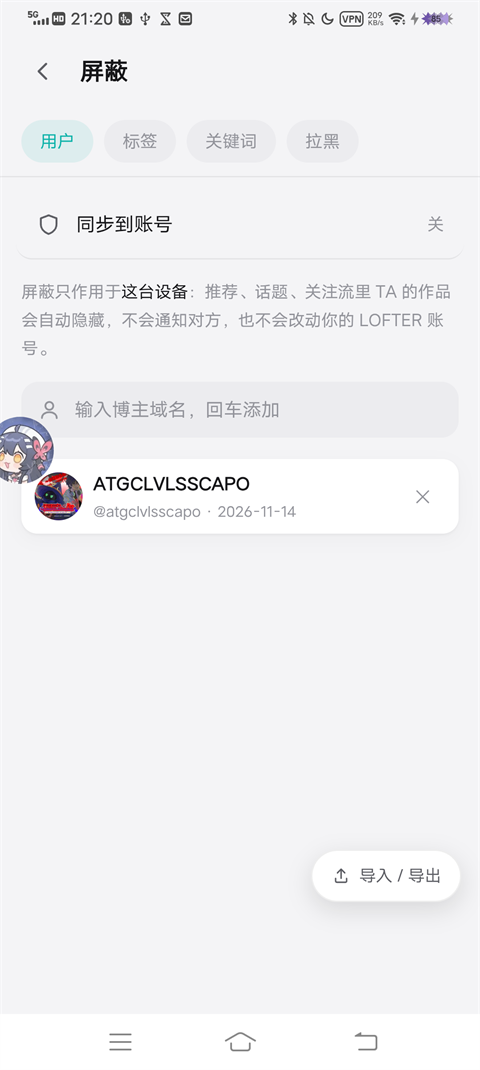
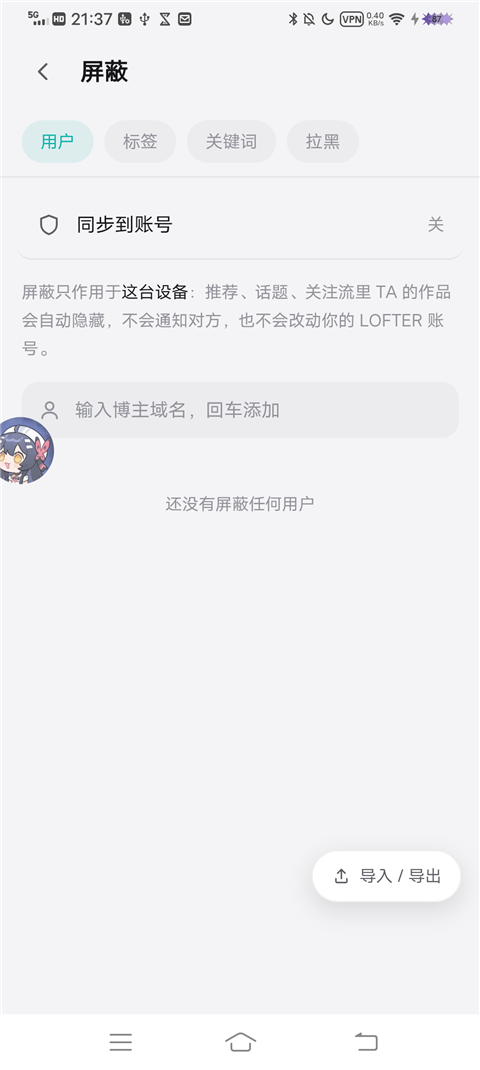
docs: README 补标签订阅一行，屏蔽截图换成干净的真机实拍

diff --git a/README.md b/README.md
@@ -30,14 +30,15 @@
 
 **基础浏览**
 
-- **推荐流**：瀑布流刷图，视频帖带封面和播放时长，多图帖有缩略预览，可按标签筛选
-- **关注动态**：动态 / 订阅标签两栏切换；「包含关注人的推荐」可开关；首屏三页，滚到底按需加载
-- **订阅标签**：每个标签一张大卡片 + 三张缩略图，缩略图缓存在本机，下次打开立刻有图；纯文字标签有占位块
-- **作品详情**：多图、视频、发布与编辑时间、所属合集（可翻上一篇 / 下一篇）、评论与楼中楼
-- **评论**：热门 / 最新切换；图片评论显示缩略图，点开看大图；划线评显示被划住的原文
-- **搜索**：标签、用户、作品三类结果，作品直接以作品卡片展示
+- **推荐流**：瀑布流刷新，可按标签筛选
+- **关注动态**：动态 / 订阅标签两栏切换；「包含关注人的推荐」可开关；
+- **订阅标签**：每个标签一张大卡片 + 三张缩略图
+- **标签订阅**：标签页右上角一键「订阅 / 已订阅」，订阅写在账号上，官方 App 与网页端同步
+- **作品详情**：多图、视频、发布与编辑时间、所属合集、评论与楼中楼
+- **评论**：热门 / 最新切换
+- **搜索**：标签、用户、作品三类结果
 - **账号页**：关注 / 粉丝 / 喜欢 / 收藏 / 推荐都能点进去看列表；博主主页显示 LOFTER ID、IP 属地、简介与置顶作品
-- **阅读体验**：保存图片到相册、复制作品链接自动跳转、返回上一页回到原位置、深色模式跟随系统
+- **阅读体验**：保存图片到相册、复制作品链接自动跳转、深色模式跟随系统
 
 **增强屏蔽（重点）**
 
@@ -50,7 +51,6 @@
 - **就地屏蔽**：作品详情页点「屏蔽」可直接屏蔽作者或当前标签；长按卡片只弹屏蔽面板，不会选中文字
 - **屏蔽说明卡**：打开被屏蔽的链接时，卡片显示作者、标题、标签与「被什么原因屏蔽」，可以选「继续观看」
 - **备份与同步**：名单可导入 / 导出成 JSON；也可以选择把标签屏蔽、拉黑同步到账号（写账号操作，需登录，短时间连续操作可能触发滑块验证）
-- **统一入口**：屏蔽页右下角固定「导入 / 导出」小长条按钮
 
 ## 这里没有
 
